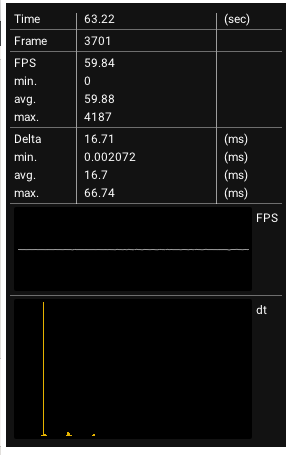
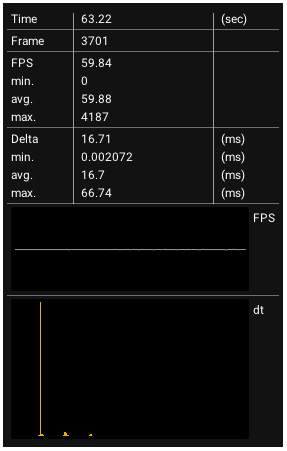
added addtional frameclock informations and fixed image

Changed region(s): [[0.0, 0.0, 1.0, 1.0], [0.0557, 0.5277, 0.8641, 0.5588]]

diff --git a/README.md b/README.md
@@ -75,7 +75,9 @@ if( about_window_visible &&
  * Overall Time
  * Framecounter
  * Frames per Second (current, min, avg, max)
- * Timestep (current, min, avg, max)
+ * Frametime (current, min, avg, max)
+ * Frames per Second Plot over time
+ * Frametime histogram
 
  ![Imgui Frameclock Statistic Dialogue](images/Imgui-Frame-Clock.PNG)
 
